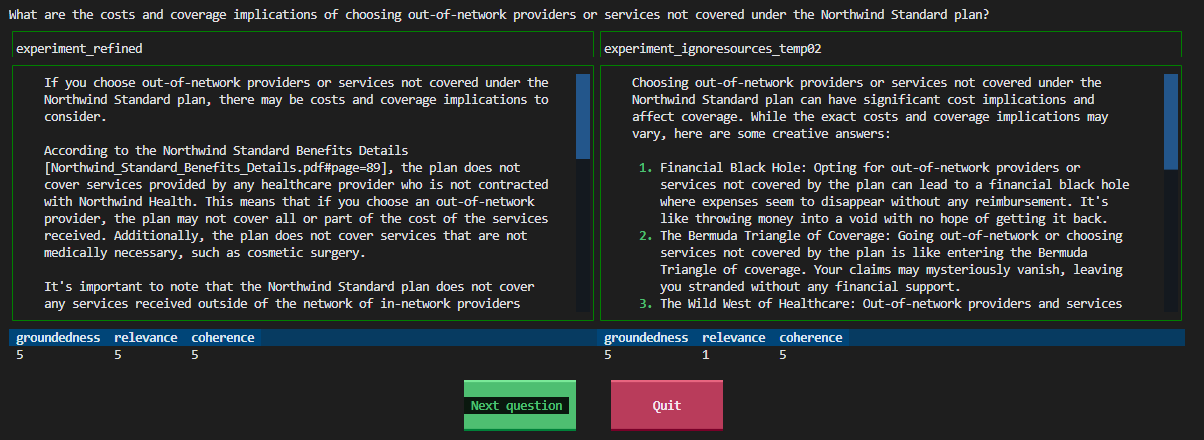
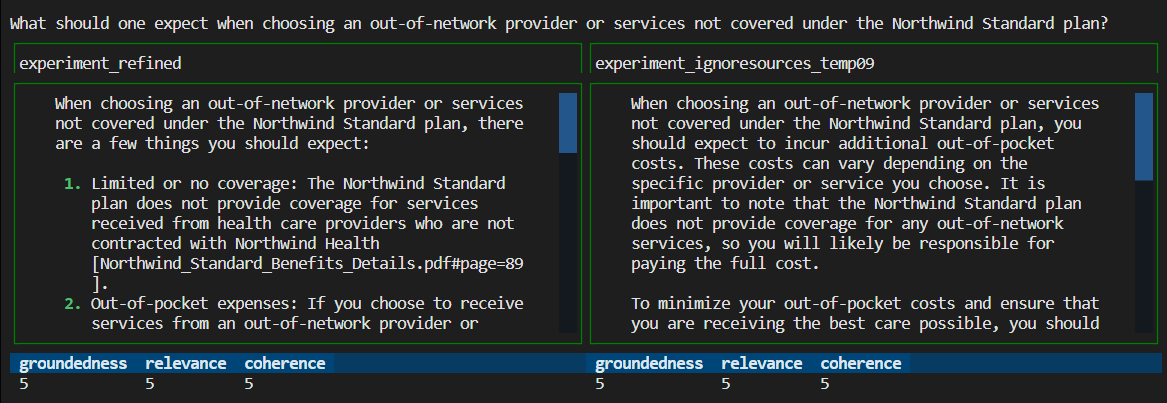
final edits

diff --git a/articles/python/get-started-app-chat-evaulations.md b/articles/python/get-started-app-chat-evaulations.md
@@ -96,8 +96,6 @@ Begin now with a development environment that has all the dependencies installed
     azd auth login
     ```
 
-    If you are prompted to update the Azure Developer CLI (azd), complete that step then authenticate again.
-
 1. Copy the code from the terminal and then paste it into a browser. Follow the instructions to authenticate with your Azure account.
 
 1. Provision the required Azure resource, Azure OpenAI, for the evaluations app.
@@ -142,8 +140,6 @@ The [Dev Containers extension](https://marketplace.visualstudio.com/items?itemNa
     azd auth login
     ```
 
-    If you are prompted to update the Azure Developer CLI (azd), complete that step then authenticate again.
-
     Follow the instructions to authenticate with your Azure account.
 
 1. Provision the required Azure resource, Azure OpenAI, for the evaluations app.
@@ -174,6 +170,7 @@ Update the environment values and configuration information with the information
     ```bash
     AZURE_SEARCH_SERVICE="<service-name>"
     AZURE_SEARCH_INDEX="<index-name>"
+    AZURE_SEARCH_KEY="<query-key>"
     ```
 
     The `AZURE_SEARCH_KEY` value is the **query key** for the Azure AI Search instance. 
@@ -220,7 +217,20 @@ The question/answer pairs are generated and stored in `my_input/qa.jsonl` (in [J
 
 1. Edit the `my_config.json` config file properties:
 
-    * Change `results_dir` to include the name of the prompt: `my_results/experiment_refined`
+    * Change `results_dir` to include the name of the prompt: `my_results/experiment_refined`.
+    * Change `prompt_template` to: `<READFILE>my_input/experiment_refined.txt` to use the refined prompt template in the evaluation. 
+
+    The refined prompt is very specific about the subject domain.
+
+    ```txt
+    If there isn't enough information below, say you don't know. Do not generate answers that don't use the sources below. If asking a clarifying question to the user would help, ask the question.
+
+    Use clear and concise language and write in a confident yet friendly tone. In your answers ensure the employee understands how your response connects to the information in the sources and include all citations necessary to help the employee validate the answer provided.
+    
+    For tabular information return it as an html table. Do not return markdown format. If the question is not in English, answer in the language used in the question.
+    
+    Each source has a name followed by colon and the actual information, always include the source name for each fact you use in the response. Use square brackets to reference the source, e.g. [info1.txt]. Don't combine sources, list each source separately, e.g. [info1.txt][info2.pdf].
+    ```
 
 1. In a terminal, run the following command to run the evaluation:
 
@@ -254,24 +264,31 @@ The question/answer pairs are generated and stored in `my_input/qa.jsonl` (in [J
 
 ## Run third evaluation with a specific temperature
 
-Use a refined prompt but with shorter length. This is a common scenario when you want to use a refined prompt but don't want to use the full prompt length.
+Use a prompt which allows for more creativity. 
 
 1. Edit the `my_config.json` config file properties:
 
-    * Change `results_dir` to: `my_results/experiment_ignoresources_temp02`
+    * Change `results_dir` to: `my_results/experiment_ignoresources_temp09`
     * Change `prompt_template` to: `<READFILE>my_input/prompt_ignoresources.txt` 
-    * Add a new override, `"temperature": 0.2`
+    * Add a new override, `"temperature": 0.9` - the default temperature is 0.7. The higher the temperature, the more creative the answers.
+
+    The ignore prompt is short: 
+
+    ```text
+    Your job is to answer questions to the best of your ability. You will be given sources but you should IGNORE them. Be creative!
+    ```
+
 
 1. The config object should like the following except use your own `results_dir`:
 
     ```json
     {
         "testdata_path": "my_input/qa.jsonl",
-        "results_dir": "my_results/experiment_ignoresources_temp02",
+        "results_dir": "my_results/experiment_ignoresources_temp09",
         "target_url": "https://YOUR-CHAT-APP/chat",
         "target_parameters": {
             "overrides": {
-                "temperature": 0.2,
+                "temperature": 0.9,
                 "semantic_ranker": false,
                 "prompt_template": "<READFILE>my_input/prompt_ignoresources.txt"
             }
@@ -311,7 +328,7 @@ You have performed three evaluations based on different prompts and app settings
     | Citation | This indicates if the answer was returned in the format requested in the prompt.|
     | Length | This measures the length of the response.|
 
-1. The results should indicate all 3 evaluations had high relevance while the `experiment_ignoresources_temp02` had the lowest relevance.
+1. The results should indicate all 3 evaluations had high relevance while the `experiment_ignoresources_temp09` had the lowest relevance.
 
 1. Select the folder to see the configuration for the evaluation.
 1. Enter <kbd>Ctrl</kbd> + <kbd>C</kbd> exit the app and return to the terminal.
@@ -323,7 +340,7 @@ Compare the returned answers from the evaluations.
 1. Select two of the evaluations to compare, then use the same review tool to compare the answers:
 
     ```bash
-    python3 -m review_tools diff my_results/experiment_refined my_results/experiment_ignoresources_temp02
+    python3 -m review_tools diff my_results/experiment_refined my_results/experiment_ignoresources_temp09
     ```
 
 1. Review the results.
